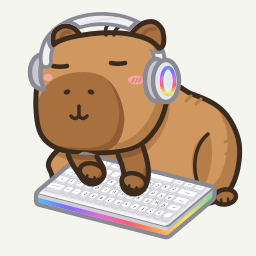
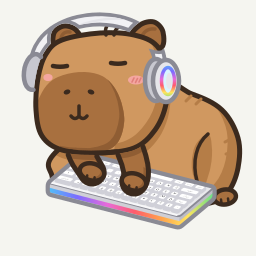
art: capybara chin hangs over the keyboard rim, belly tucked behind the foreshortened board, headphones/beanie kept off the face

diff --git a/art/capybara/_src/gen_capybara.py b/art/capybara/_src/gen_capybara.py
@@ -48,7 +48,11 @@ def kbp(x, y):
     return (30 + (x - 30) * KB_S + KB_T[0], 200 + (y - 200) * KB_S + KB_T[1])
 
 
-KB_BL, KB_BR, KB_FL, KB_FR = kbp(80, 146), kbp(220, 182), kbp(30, 188), kbp(170, 224)
+KB_BL, KB_BR, KB_FL, KB_FR = kbp(80, 146), kbp(220, 182), kbp(42.5, 177.5), kbp(182.5, 213.5)
+KB_DEPTH = 12.0 * KB_S
+# everything the keyboard can paint (top face, front and right faces, plus its outline), with margin
+KB_AREA = Polygon([KB_FL, KB_BL, KB_BR, (KB_BR[0], KB_BR[1] + KB_DEPTH),
+                   (KB_FR[0], KB_FR[1] + KB_DEPTH), (KB_FL[0], KB_FL[1] + KB_DEPTH)]).buffer(7, join_style="round")
 
 
 def back_edge_y(x):
@@ -246,6 +250,28 @@ def head_layers(eyes="content", mouth="smile"):
     return out
 
 
+def chin_over_keyboard(sleeping=False):
+    """The bit of the head that overlaps the keyboard, redrawn in the paws layer (which is painted
+    after the keyboard): the chin hangs in front of the board's back edge, so the forelegs that come
+    out from under it never look like they start behind the rim. Identical to the body-layer drawing,
+    so it changes nothing where there is no keyboard."""
+    g = sleep_geom if sleeping else (lambda x: x)
+    head = g(HEAD)
+    area = KB_AREA
+    if head.intersection(area).is_empty:
+        return []
+    # each piece reaches a little further than the one under it, so the antialiased cut edge of one
+    # piece is always covered by the next and no seam shows where the patch ends
+    parts = [fill(poly_d(head.intersection(area)), MAIN),
+             fill(poly_d(g(HEAD_SHADE).intersection(head).intersection(area.buffer(0.8))), SHADE),
+             fill(poly_d(g(MUZZLE).intersection(head).intersection(area.buffer(1.6))), DARK),
+             fill(poly_d(g(MUZZLE_SHADE).intersection(head).intersection(area.buffer(2.4))), DARK_SH)]
+    edge = head.boundary.intersection(area.buffer(3.2))
+    parts.append(f'<path d="{line_d(edge)}" fill="none" stroke="{LINE}" stroke-width="5" '
+                 f'stroke-linecap="butt" stroke-linejoin="round"/>')
+    return parts
+
+
 def face(eyes, mouth):
     out = []
     # blush on the cheeks, outside the snout
@@ -293,11 +319,15 @@ def face(eyes, mouth):
 
 # ---------------------------------------------------------------- body
 BODY_PTS = [(150, 84), (192, 94), (222, 110), (238, 138), (238, 168), (228, 192), (210, 203),
-            (170, 206), (110, 206), (66, 200), (52, 176), (58, 150)]
+            (170, 206), (110, 205), (66, 195), (52, 176), (58, 150)]
+# (the belly's desk line stays tucked behind the foreshortened keyboard's front edge)
 BODY_D, BODY = smooth_poly(BODY_PTS)
 BODY_SHADE = shade_of(BODY, -12, -10, Polygon([(170, 40), (256, 40), (256, 256), (60, 256), (60, 196)]))
 # folded hind leg: the haunch line + a little dark foot by the keyboard corner
-HAUNCH = "M208 134 C193 146 191 172 201 191"
+# (it stops at the keyboard's back edge: the rest would only be hidden under the board, right next
+# to the hugging foreleg in hold, where it read as the leg continuing under the keyboard)
+_KB_TOP = Polygon([KB_FL, KB_FR, KB_BR, KB_BL])
+HAUNCH = line_d(LineString(cubic((208, 134), (193, 146), (191, 172), (201, 191), 40)).difference(_KB_TOP.buffer(1.5)))
 HAUNCH_SHADE_PTS = [(208, 134), (195, 146), (192, 170), (201, 191), (210, 170), (212, 148)]
 HIND_FOOT = (225, 197)
 CHIN_SHADOW = affinity.translate(HEAD, 3, 9)  # the head's cast shadow on the chest and shoulder
@@ -393,7 +423,7 @@ def type_curve(side, paw):
 
 def paws_layer(lstate, rstate, sleeping=False):
     head = sleep_geom(HEAD_ALL) if sleeping else HEAD_ALL
-    out = []
+    out = chin_over_keyboard(sleeping)
     states = [("L", lstate), ("R", rstate)]
     for side, st in states:
         c, rot, rx, ry, _ = paw_state(st, side)
@@ -426,7 +456,7 @@ def hug_paws(kind):
     pl, pr = HUG_PAWS if kind == "hug" else SIP_PAWS
     rl, rr = (-24, 22) if kind == "hug" else (-30, 18)
     clip = HEAD_ALL if kind == "hug" else None
-    out = []
+    out = chin_over_keyboard()
     for side, p in (("L", pl), ("R", pr)):
         out += arm(hug_curve(side, p, kind), clip, 16.0, 13.0, below_kb=True)
     for (cx, cy), rot in ((pl, rl), (pr, rr)):
@@ -487,16 +517,25 @@ HP_RING = """<defs>
 
 
 def headphones_body():
-    band = LineString(cubic((46, 62), (40, 8), (160, 0), (160, 66), 80))
+    """Band over the crown (behind both ears), near cup on the side of the head where the near ear
+    meets it, far cup + far end of the band tucked BEHIND the head: only what clears the head's
+    silhouette is drawn, cut just outside the head outline so nothing sits on the face."""
+    behind = HEAD.buffer(2.6)                       # the head plus its outline
+    band = LineString(cubic((36, 72), (28, 6), (160, 0), (160, 66), 80))
     cut = EARS.buffer(2.6)
-    outer = band.buffer(7, cap_style="round").difference(cut)
-    inner = band.buffer(3.25, cap_style="round").difference(cut.buffer(3.4))
+    # far side (left of the crown): the band runs down behind the head
+    far = Polygon([(0, 0), (70, 0), (70, 256), (0, 256)])
+    hide = unary_union([cut, behind.intersection(far)])
+    outer = band.buffer(7, cap_style="round").difference(hide)
+    inner = band.buffer(3.25, cap_style="round").difference(hide.buffer(3.4))
     hl = LineString(cubic((62, 36), (78, 22), (104, 17), (128, 19), 40)).buffer(1.25).intersection(inner)
+    # far cup: a crescent peeking out past the side of the head, the band end tucked into it
+    cup = ellipse_poly(34, 72, 10, 18, 8)
+    cup_vis = cup.difference(behind)
+    cup_edge = cup.boundary.difference(behind.buffer(0.4))
     return [
-        # far cup: a crescent peeking out past the forehead
-        f'<path d="M48 54 C36 52 30 62 30 72 C30 82 35 90 44 89 C41 82 40 76 40.5 70 C41 63 43.5 58 48 54Z" '
-        f'fill="{HP_SH}" stroke="{G_LINE}" stroke-width="4.5" stroke-linejoin="round"/>',
         fill(poly_d(outer), G_LINE), fill(poly_d(inner), HP_BAND), fill(poly_d(hl), HP_CUP),
+        fill(poly_d(cup_vis), HP_SH), stroke(line_d(cup_edge), 4.5, G_LINE),
         f'<ellipse cx="156" cy="80" rx="11" ry="21" fill="{HP_SH}" stroke="{G_LINE}" stroke-width="4.5"/>',
         f'<ellipse cx="166" cy="81" rx="13" ry="21" fill="{HP_CUP}" stroke="{G_LINE}" stroke-width="4.5"/>',
         f'<ellipse cx="168" cy="81" rx="6.5" ry="13.5" fill="{HP_GLOW}" stroke="url(#hp-ring)" stroke-width="3.5"/>',
@@ -508,7 +547,8 @@ BEANIE_C, BEANIE_SH, BEANIE_RIB = "#7FB8C8", "#5F9BAD", "#4E8798"
 
 
 def beanie_body():
-    cuff_lo = cubic((40, 66), (80, 48), (130, 44), (170, 60), 40)
+    # the cuff sits above the far (left) eye, which is set high on the face
+    cuff_lo = cubic((40, 60), (80, 44), (130, 44), (170, 60), 40)
     cuff_hi = [(x, y - 11) for x, y in cuff_lo]
     top = unary_union([HEAD.buffer(3.5), ellipse_poly(104, 40, 60, 24)])
     dome = top.intersection(Polygon(cuff_lo + [(200, 0), (20, 0)]))
